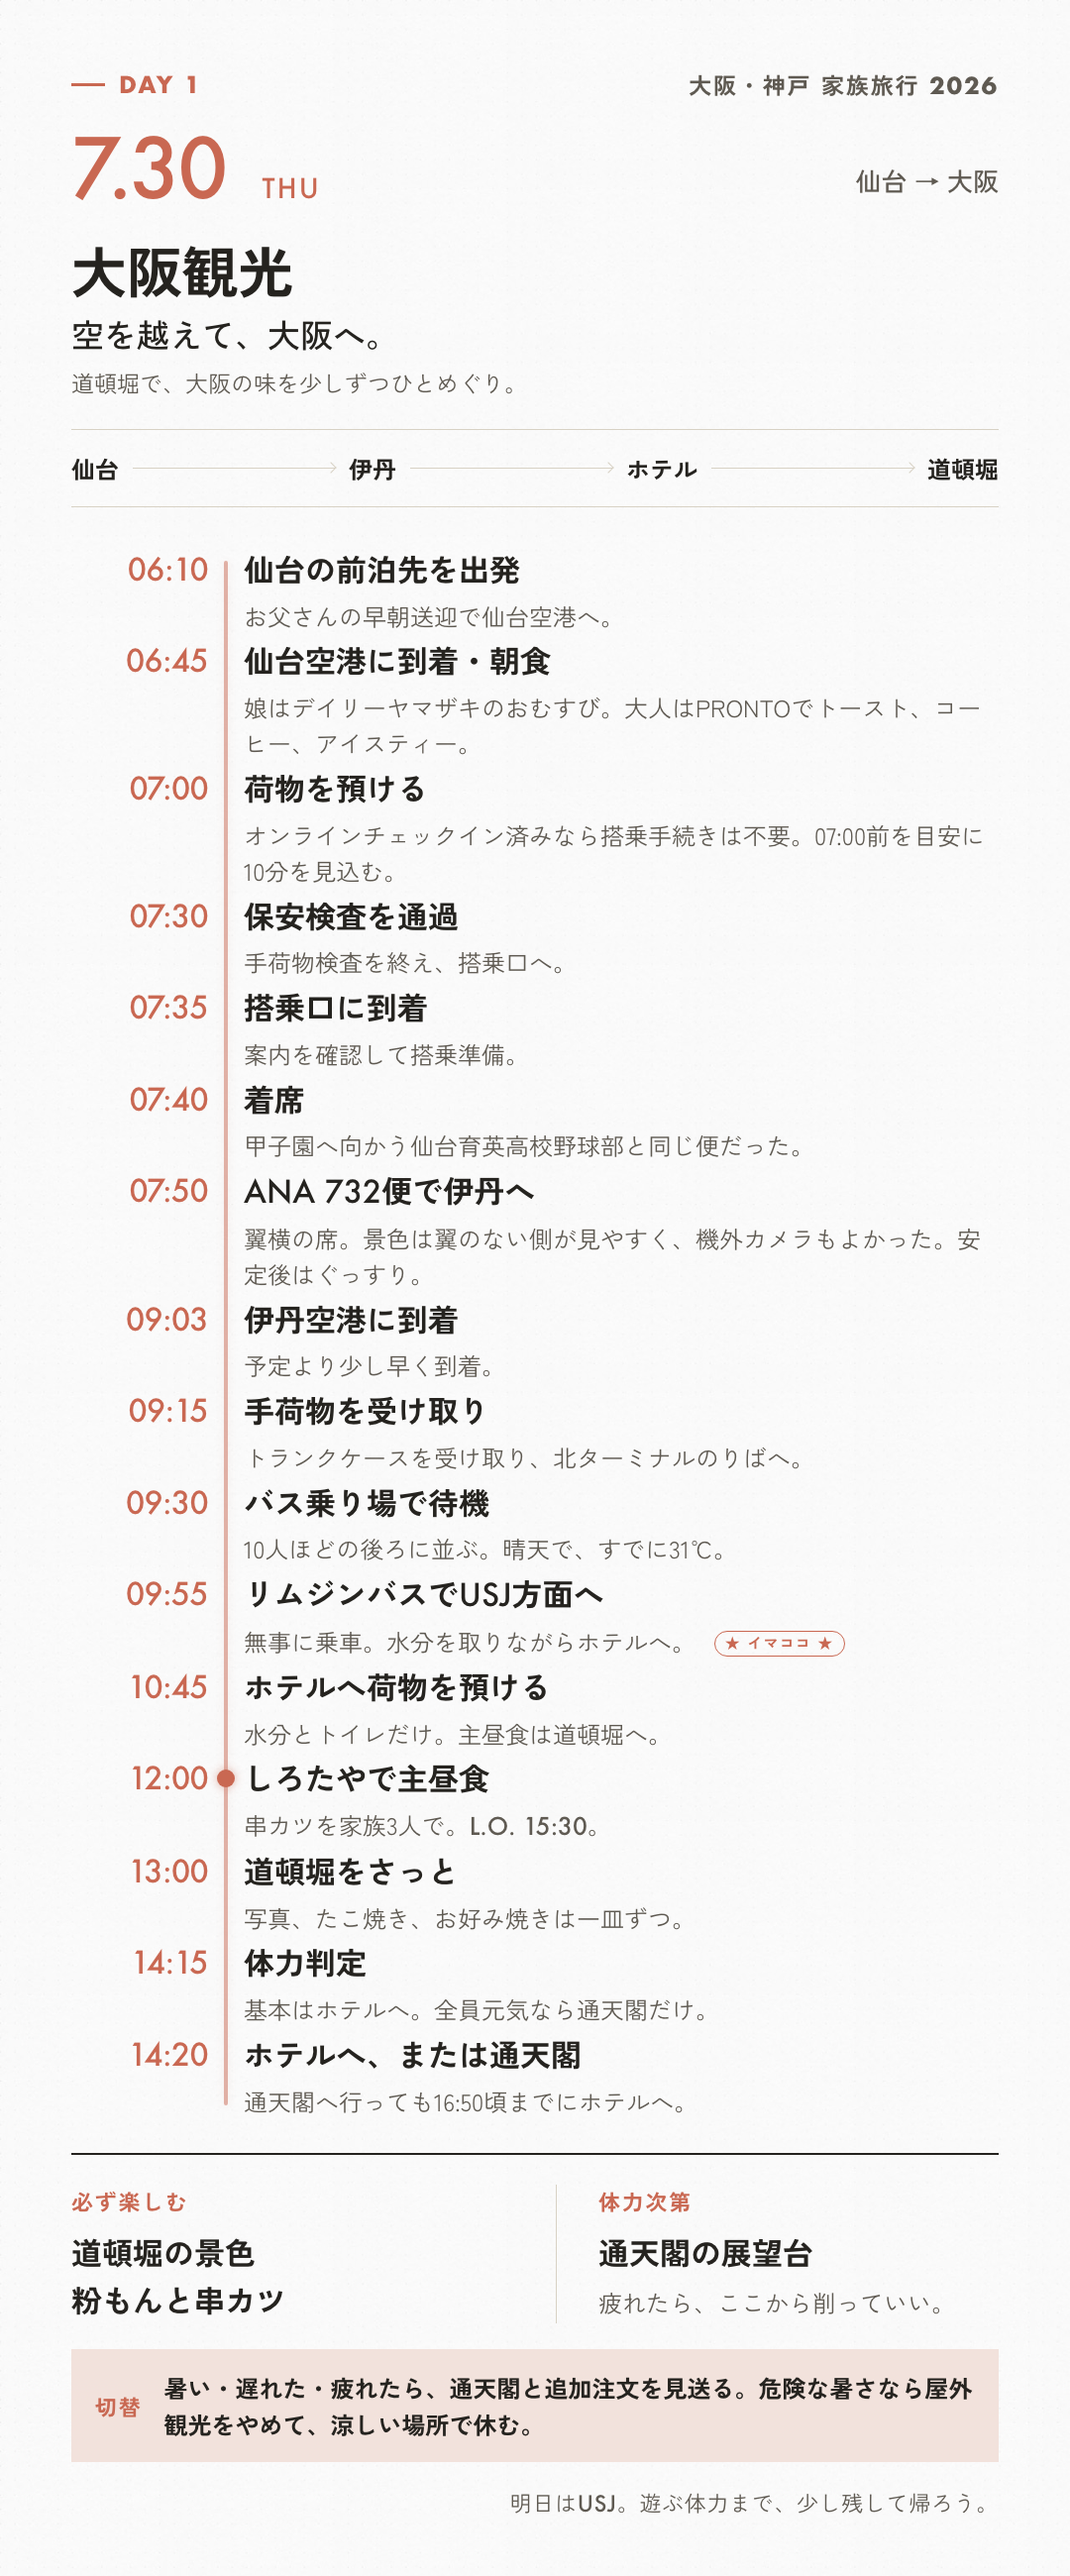
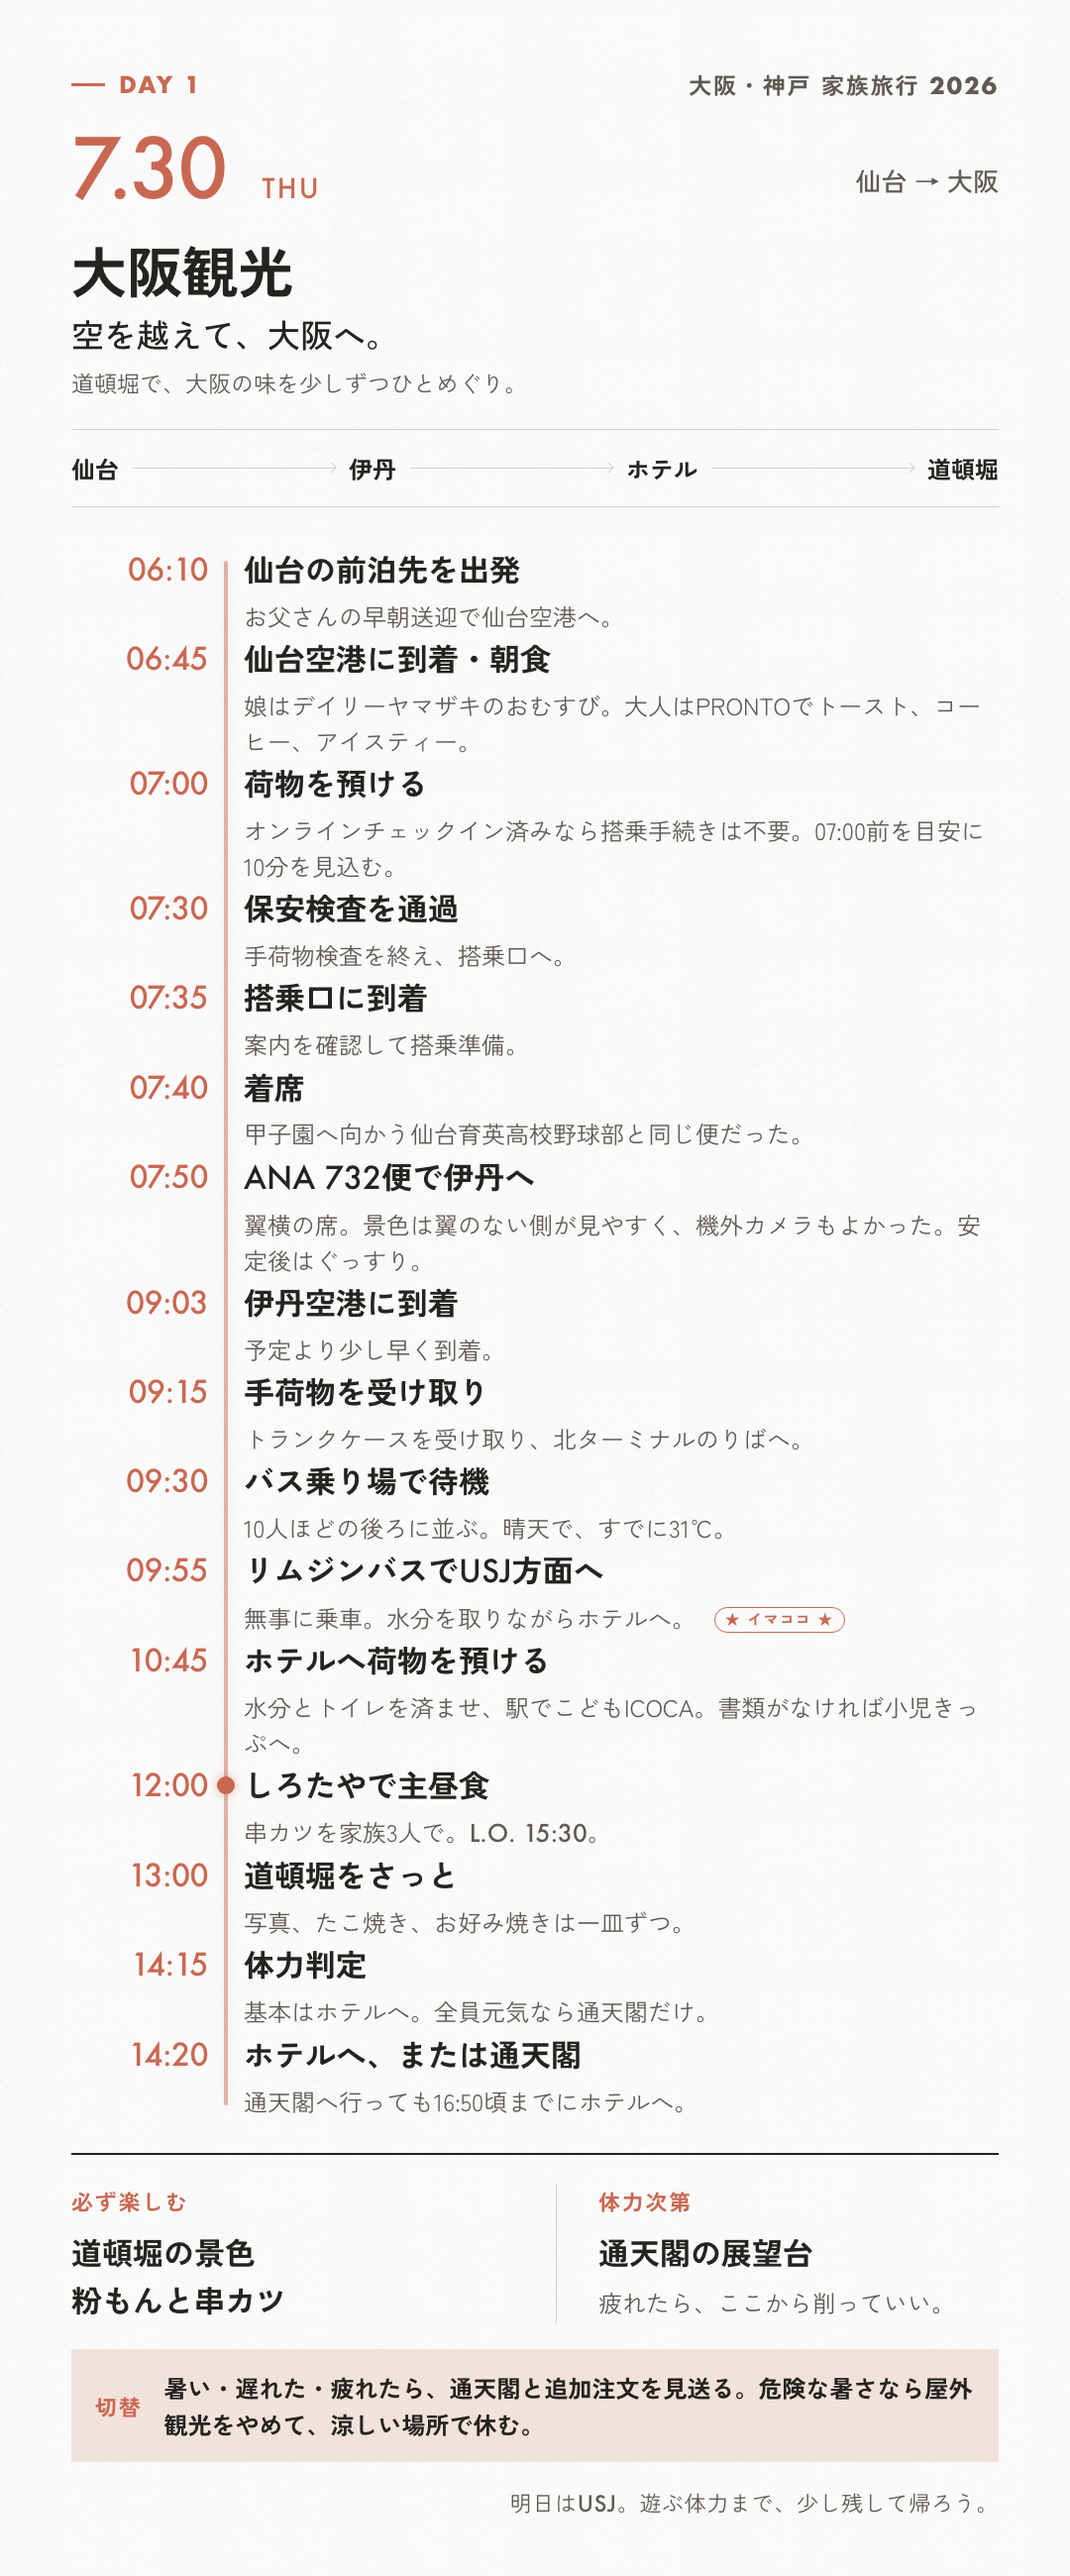
Add direct route to Shirotaya

diff --git a/docs/transport-guide.html b/docs/transport-guide.html
@@ -174,9 +174,9 @@
             <div class="transport-step">
               <span class="transport-step__number">04</span>
               <div>
-                <h3>09:50発を第一候補にする</h3>
-                <p>予約なし。初めてなら券売機で大人2枚・小児1枚を購入。乗れなければ同じのりばの10:10発へ。</p>
-                <span class="sign">09:50</span><span class="sign">次便 10:10</span>
+                <h3>09:55発へ無事に乗車</h3>
+                <p>09:30に並び始め、10人ほどの後ろから乗車できた。晴天・31℃だったため、水分補給を優先。</p>
+                <span class="sign">09:55 実績</span><span class="sign">北ターミナル1番</span>
               </div>
             </div>
             <div class="transport-step">
@@ -191,12 +191,44 @@
           <p class="direction-note">
             ANAは南側ゲートを使うが、手荷物受取と到着口は<strong>中央ターミナル</strong>。そこから北ターミナル1番のりばへ進み、家族移動で10分前後を見込む。
           </p>
-          <p class="warning-note">
-            09:50便に間に合わなくても走らない。10:10便でも、しろたやの主昼食には余裕を持って向かえる。食べ歩きは一皿ずつに絞り、14:15の体力判定を通れば通天閣も残せる。
-          </p>
+          <p class="warning-note">今日は晴天・31℃。移動中から水分を取り、道頓堀では座れる店を最優先にする。</p>
           <p>
-            10:10便も運休・満員・長時間遅延で使いにくければ、中央ターミナル案内所へ相談し、タクシーでホテルへ向かう。
+            今後同様の状況では、満員や遅延なら走らず次便へ切り替える。子ども連れでトランクケースがあるため、複雑な鉄道迂回は選ばない。
           </p>
+        </section>
+
+        <section>
+          <h2>今日の最短手順</h2>
+          <div class="transport-route">
+            <div class="transport-step">
+              <span class="transport-step__number">01</span>
+              <div>
+                <h3>ホテルで荷物を預ける</h3>
+                <p>ホテル近鉄ユニバーサル・シティへ直行。夜の荷物受取方法だけ確認し、JTB特典の受取は夕方に回してよい。</p>
+              </div>
+            </div>
+            <div class="transport-step">
+              <span class="transport-step__number">02</span>
+              <div>
+                <h3>こどもICOCA、または小児きっぷ</h3>
+                <p>ユニバーサルシティ駅で、書類があればこどもICOCAを購入。なければ小児きっぷへ切り替え、時間を使わない。</p>
+              </div>
+            </div>
+            <div class="transport-step">
+              <span class="transport-step__number">03</span>
+              <div>
+                <h3>JRと阪神で大阪難波へ</h3>
+                <p>ユニバーサルシティ駅1番→西九条のJR中央改札を出る→阪神西改札→大阪難波方面。</p>
+              </div>
+            </div>
+            <div class="transport-step">
+              <span class="transport-step__number">04</span>
+              <div>
+                <h3>しろたやへ</h3>
+                <p>大阪難波駅の東改札から14番出口へ。戎橋・道頓堀の表示で中座くいだおれビル3階へ進み、12:00開店に合わせる。</p>
+              </div>
+            </div>
+          </div>
         </section>
 
         <section>

diff --git a/docs/trip-plan.html b/docs/trip-plan.html
@@ -186,31 +186,38 @@
               </div>
             </div>
             <div class="timeline__item">
-              <time>10:45頃</time>
+              <time>10:35頃</time>
               <div>
-                <h3>ホテルへ荷物を預ける</h3>
-                <p>ホテル近鉄ユニバーサル・シティで手続きを確認する。</p>
+                <h3>ホテルで荷物を預ける</h3>
+                <p>ホテル近鉄ユニバーサル・シティへ直行。夜の荷物受取方法だけ確認する。</p>
               </div>
             </div>
             <div class="timeline__item">
-              <time>11:10</time>
+              <time>10:45</time>
               <div>
-                <h3>水分・トイレ・必要な補食</h3>
-                <p>主昼食は道頓堀。娘がお腹を空かせていれば、少量だけ補う。</p>
+                <h3>ユニバーサルシティ駅でこどもICOCA</h3>
+                <p>生年月日を確認できる書類があれば購入。なければ小児きっぷへ切り替える。</p>
               </div>
             </div>
             <div class="timeline__item">
-              <time>11:30</time>
+              <time>11:00</time>
               <div>
-                <h3>暑さ指数を確認して道頓堀へ</h3>
-                <p>危険な暑さなら市内へ出ず、屋内で休む。数字より家族の様子を優先する。</p>
+                <h3>JRと阪神で大阪難波へ</h3>
+                <p>ユニバーサルシティ駅1番→西九条でJR改札を出る→阪神西改札→大阪難波方面。</p>
+              </div>
+            </div>
+            <div class="timeline__item">
+              <time>11:35</time>
+              <div>
+                <h3>しろたやへ</h3>
+                <p>大阪難波駅の東改札から14番出口へ。戎橋・道頓堀の表示で中座くいだおれビル3階へ。</p>
               </div>
             </div>
             <div class="timeline__item">
               <time>12:00</time>
               <div>
                 <h3>しろたやで主昼食</h3>
-                <p>串カツを家族3人で。12:00開店、16:00閉店、L.O.は15:30。リムジンバス乗車後、到着見込みを見て予約または当日入店を判断する。</p>
+                <p>串カツを家族3人で。12:00開店、16:00閉店、L.O.は15:30。予約せず、開店に合わせて当日入店する。</p>
               </div>
             </div>
             <div class="timeline__item">
